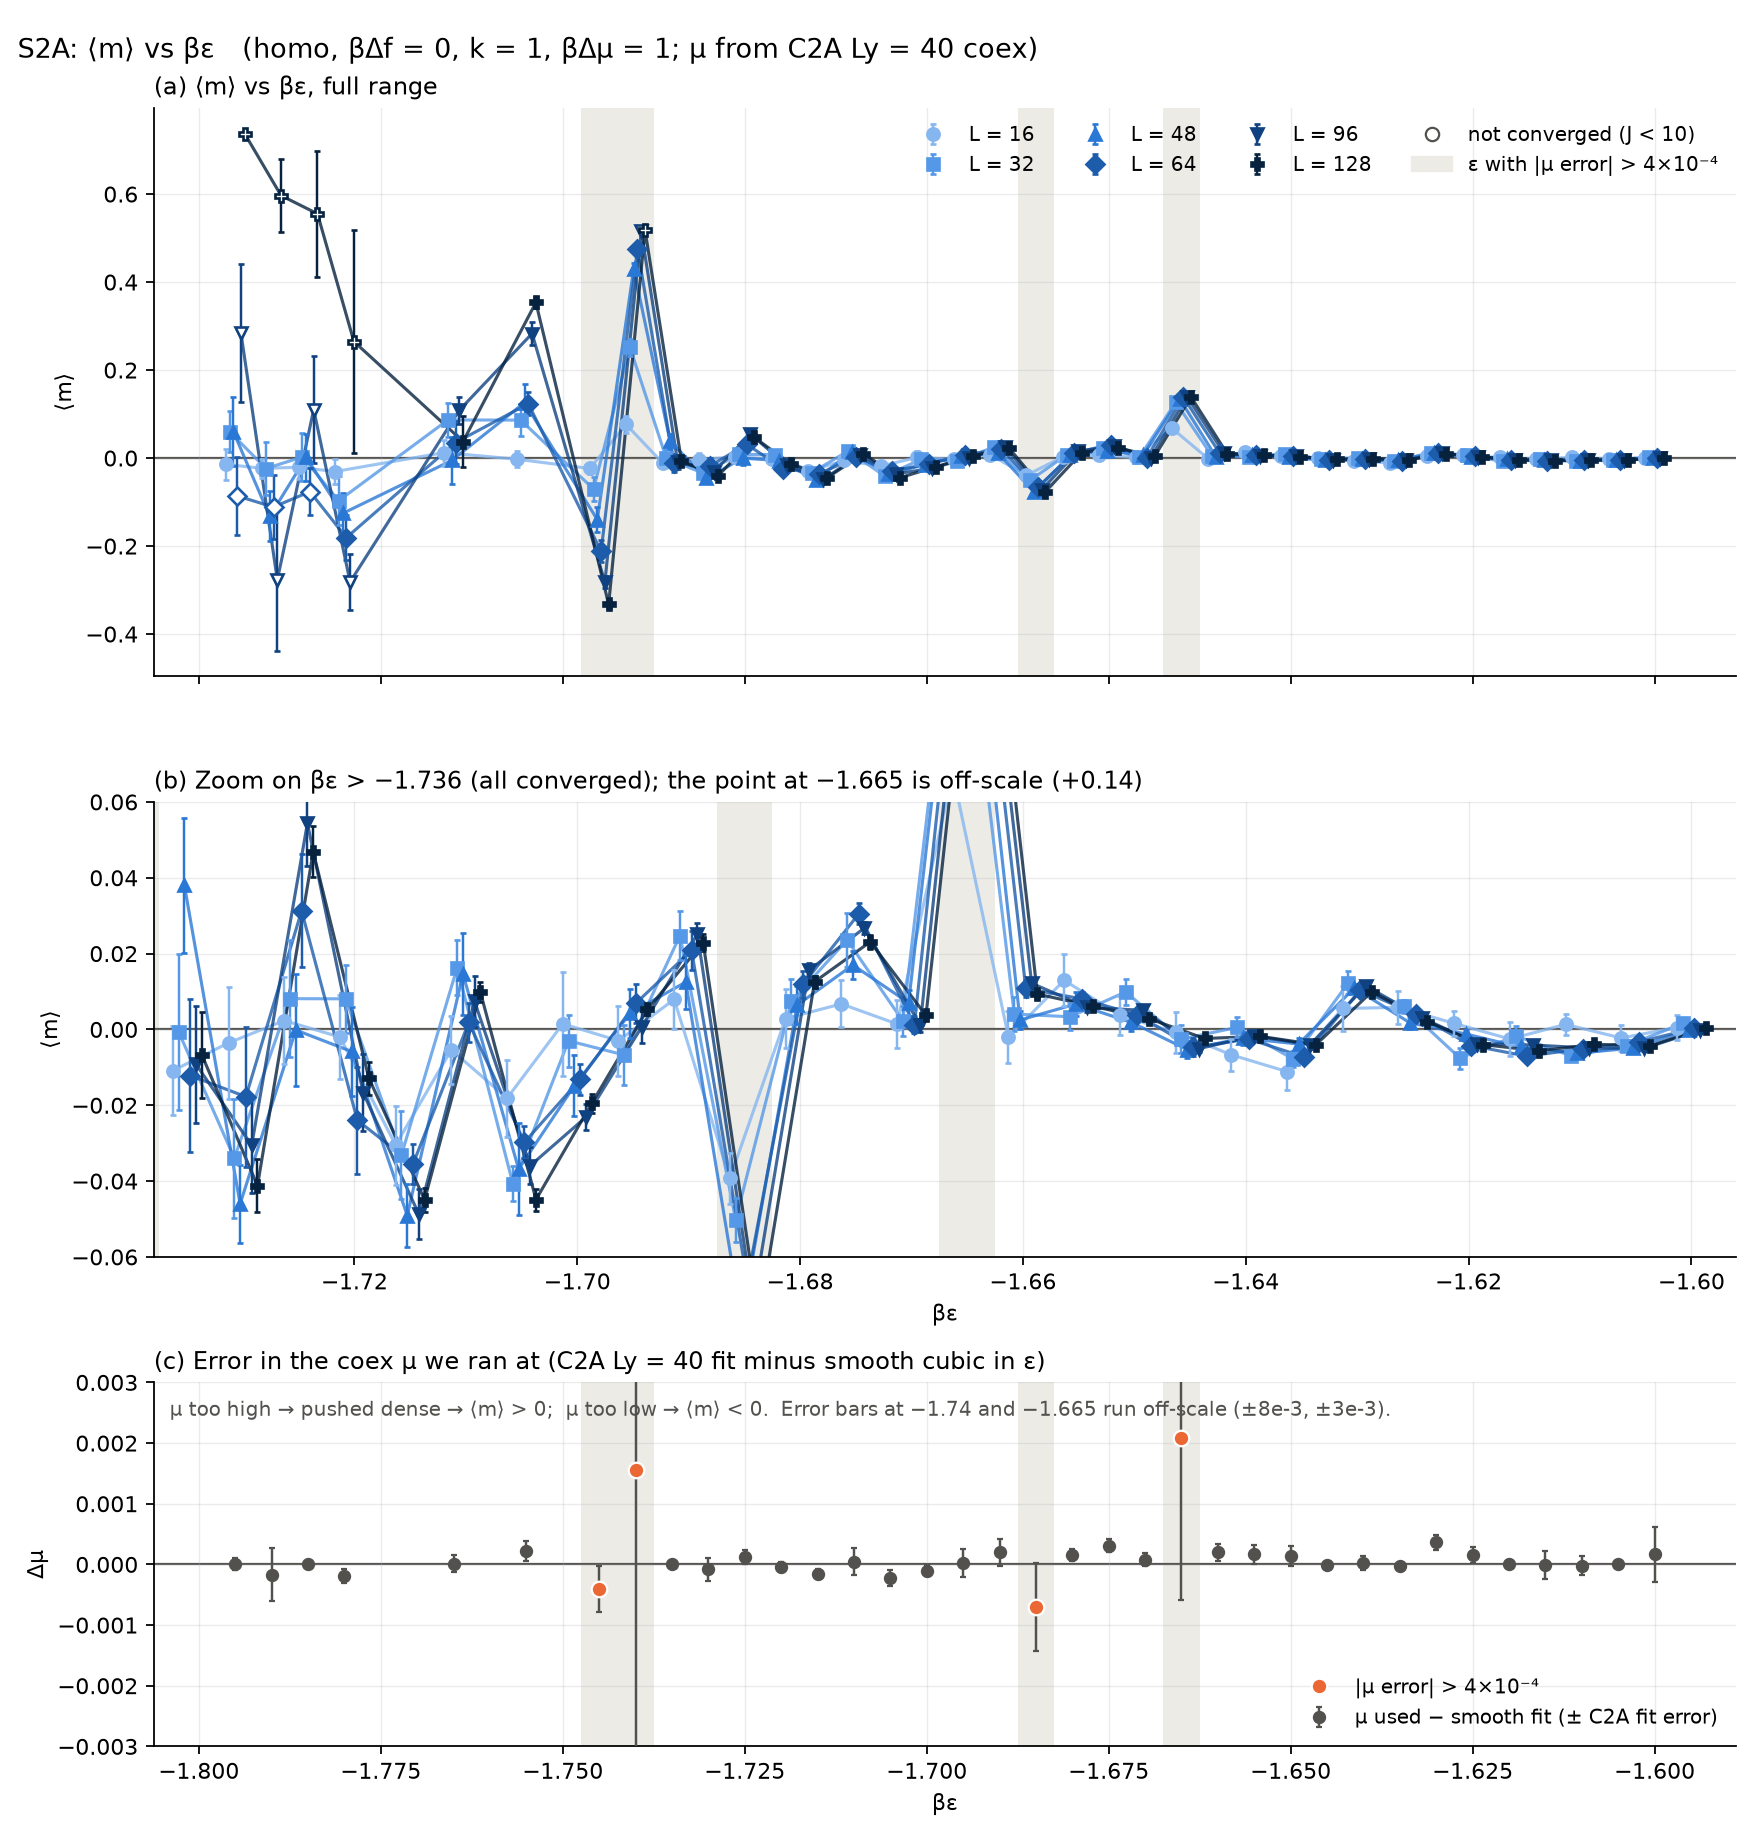
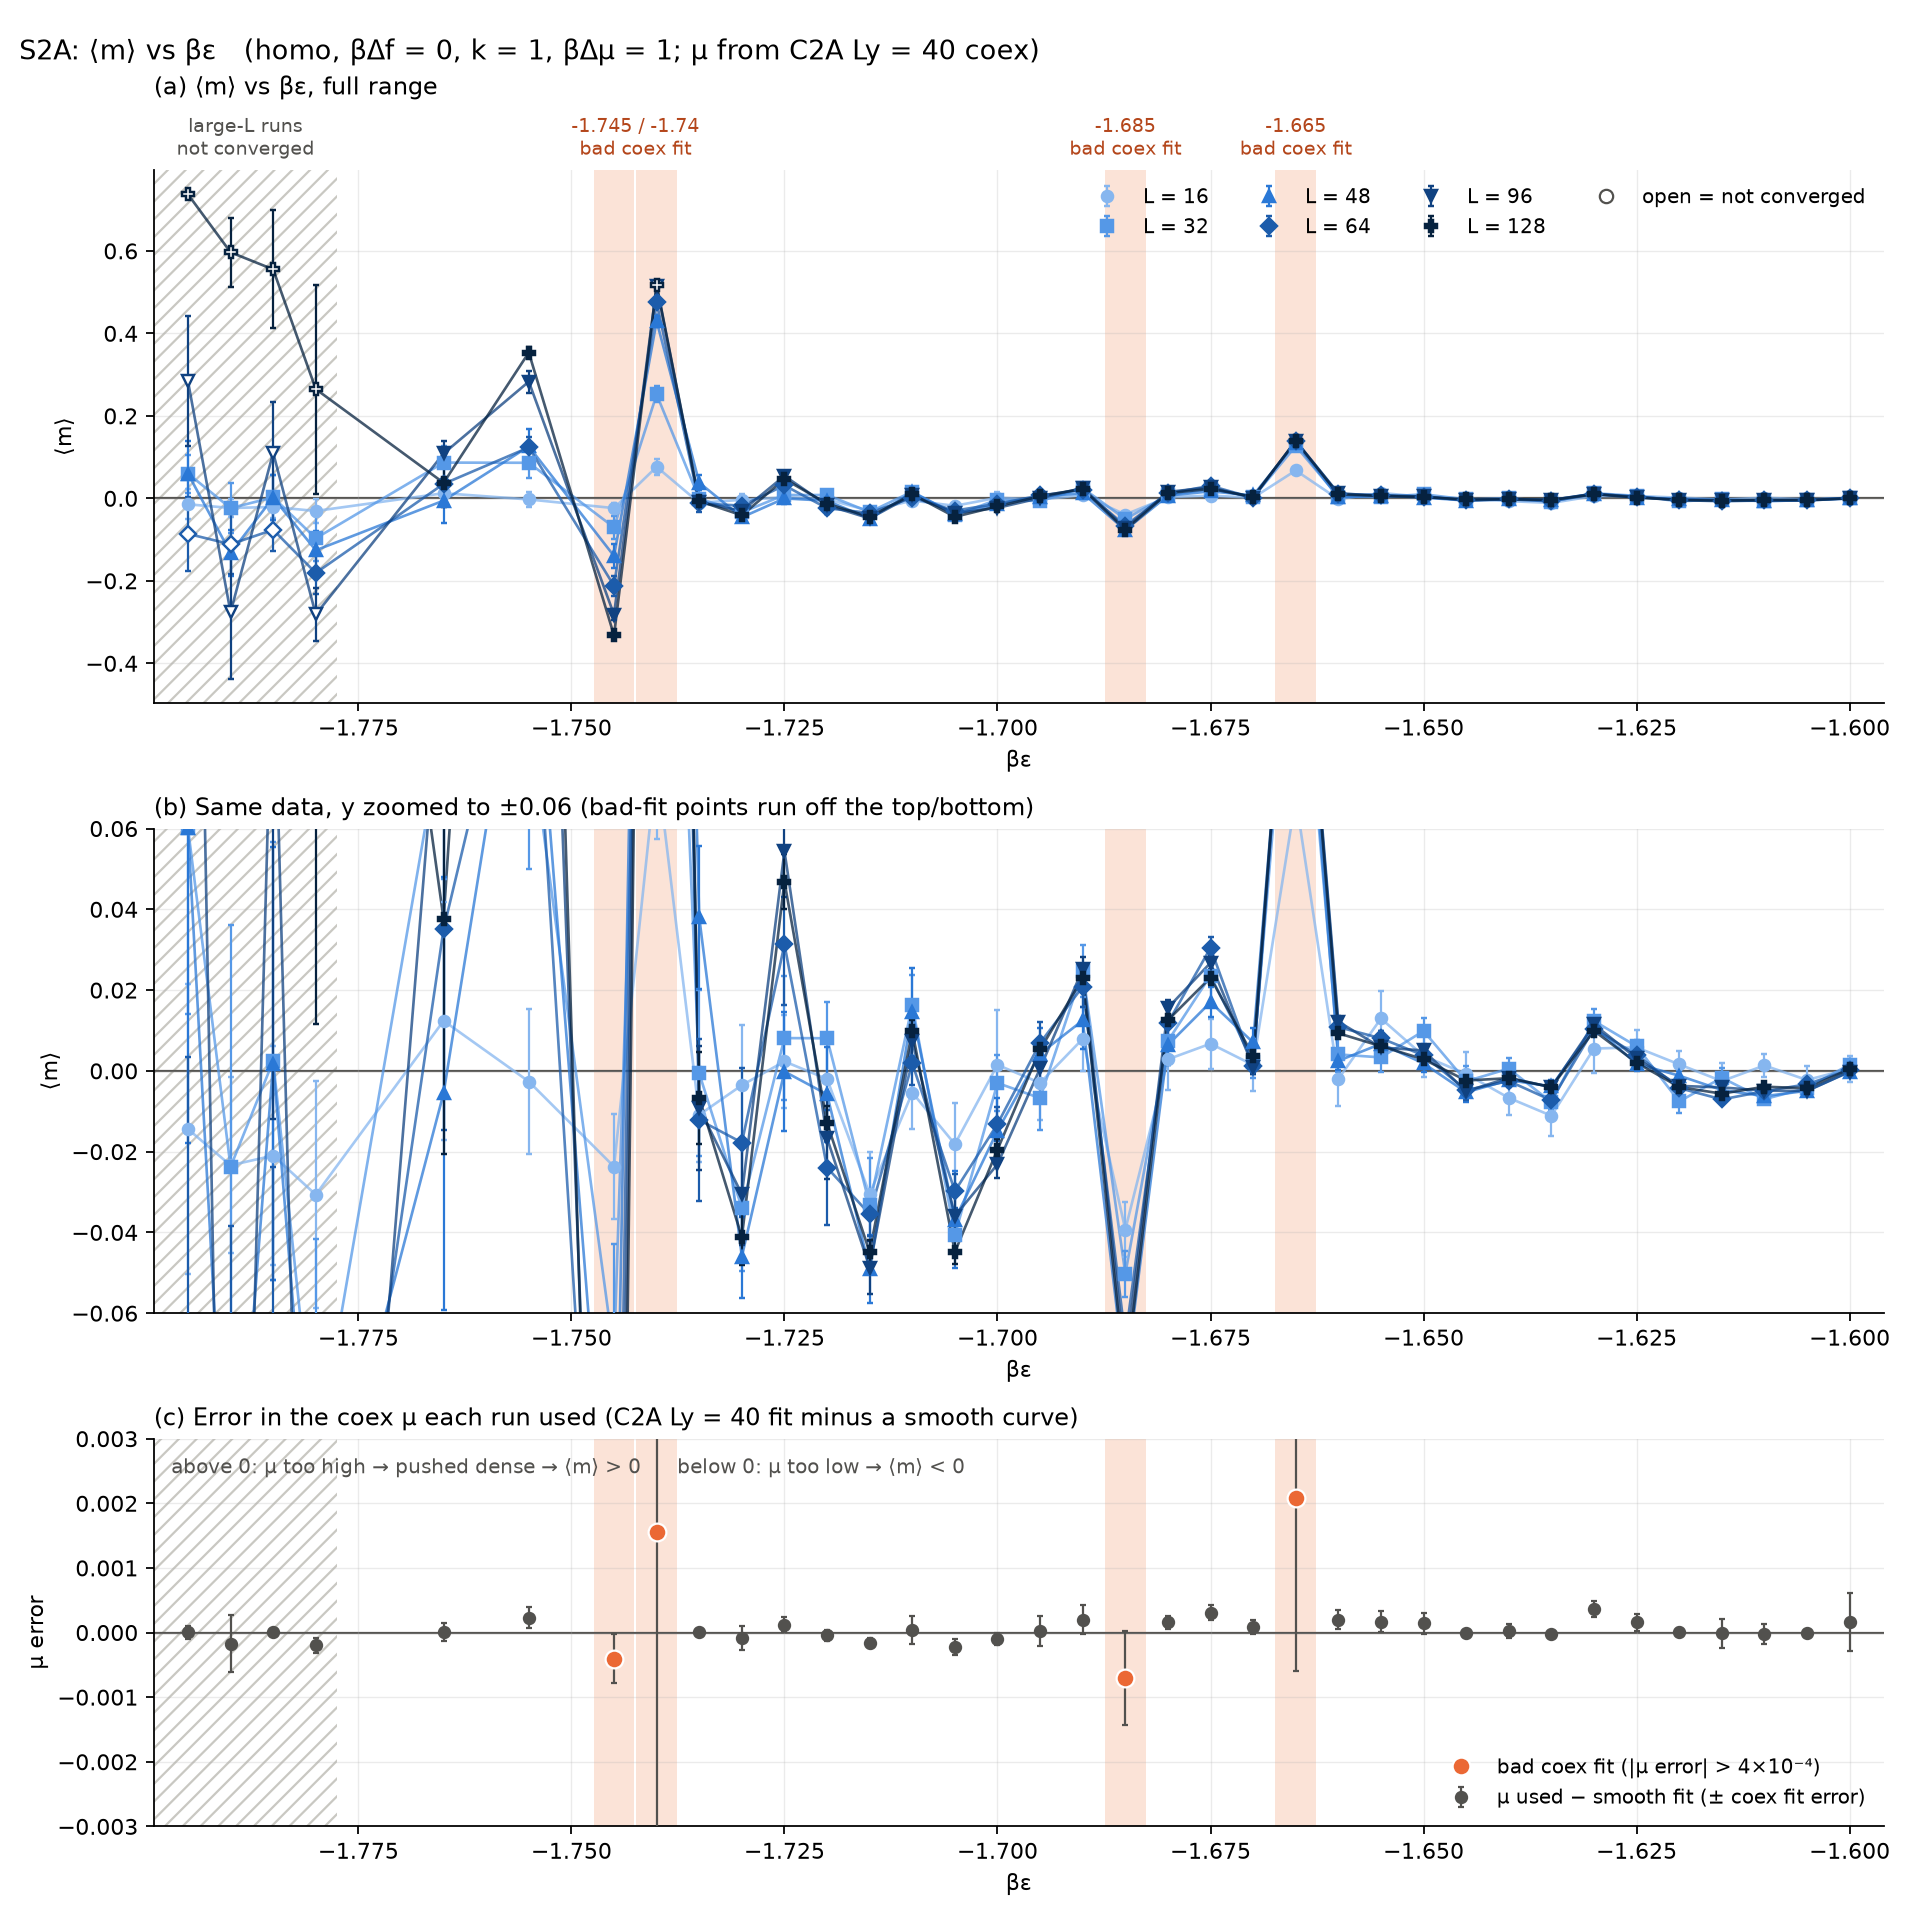
S2A <m> plot: shared x axis, labelled bad-fit and not-converged regions

diff --git a/experiments/2026-10-21_s2a_m_vs_eps/plot_s2a_m.py b/experiments/2026-10-21_s2a_m_vs_eps/plot_s2a_m.py
@@ -23,10 +23,10 @@ import pandas as pd
 L_COLORS = {16: "#86b6ef", 32: "#5598e7", 48: "#2a78d6", 64: "#1c5cab", 96: "#104281", 128: "#06223f"}
 L_MARKERS = {16: "o", 32: "s", 48: "^", 64: "D", 96: "v", 128: "P"}
 INK2 = "#52514e"
-BAND = "#ecebe6"
+BAD_BAND = "#fbe3d7"
+EMPH_TEXT = "#b4461b"
 EMPH = "#eb6834"
 BAD_MU = 4e-4  # |mu - smooth fit| above this marks an eps as a "bad coex mu" point
-ZOOM_EPS = -1.736  # panel (b) shows eps above this (all pairs converged there)
 
 
 def main():
@@ -50,62 +50,77 @@ def main():
     bad = mu[mu["resid"].abs() > BAD_MU]["epsilon"].to_numpy()
 
     fig, (ax1, ax2, ax3) = plt.subplots(
-        3, 1, figsize=(11, 11.5), gridspec_kw={"height_ratios": [1.25, 1, 0.8]})
-    ax3.sharex(ax1)
+        3, 1, figsize=(12, 12), sharex=True, gridspec_kw={"height_ratios": [1.1, 1, 0.8]})
     Ls = sorted(d["L"].unique())
-    offs = dict(zip(Ls, np.linspace(-0.0013, 0.0013, len(Ls))))
+    xlo, xhi = d["epsilon"].min() - 0.004, d["epsilon"].max() + 0.004
+    # Cold end: eps where some L never passed the jump check (ignore the isolated bad-mu eps).
+    unconv = sorted(set(d.loc[~d["converged"], "epsilon"]) - set(bad))
+    cold_edge = max(unconv) + 0.0025 if unconv else None
 
     for ax in (ax1, ax2, ax3):
+        if cold_edge is not None:
+            ax.axvspan(xlo, cold_edge, facecolor="none", edgecolor="#c9c8c2", hatch="///", lw=0, zorder=0)
         for e in bad:
-            ax.axvspan(e - 0.0025, e + 0.0025, color=BAND, lw=0, zorder=0)
+            ax.axvspan(e - 0.0024, e + 0.0024, color=BAD_BAND, lw=0, zorder=0)
         ax.axhline(0, color=INK2, lw=1, zorder=1)
         ax.grid(alpha=0.25, lw=0.6)
+        ax.tick_params(labelbottom=True)
+        ax.set_xlabel("βε")
         for side in ("top", "right"):
             ax.spines[side].set_visible(False)
+    ax1.set_xlim(xlo, xhi)
 
     for ax in (ax1, ax2):
         for L in Ls:
             g = d[d["L"] == L].sort_values("epsilon")
-            if ax is ax2:
-                g = g[g["epsilon"] > ZOOM_EPS]
-            x = g["epsilon"] + offs[L]
-            ax.plot(x, g["m_mean"], color=L_COLORS[L], lw=1.4, alpha=0.8, zorder=2)
+            ax.plot(g["epsilon"], g["m_mean"], color=L_COLORS[L], lw=1.2, alpha=0.75, zorder=2)
             for conv, face in ((True, L_COLORS[L]), (False, "white")):
                 h = g[g["converged"] == conv]
-                ax.errorbar(h["epsilon"] + offs[L], h["m_mean"], yerr=h["m_se"], fmt=L_MARKERS[L],
-                            ms=5.5, color=L_COLORS[L], mfc=face, mec=L_COLORS[L], mew=1.2,
-                            elinewidth=1.1, capsize=1.5, zorder=3,
+                ax.errorbar(h["epsilon"], h["m_mean"], yerr=h["m_se"], fmt=L_MARKERS[L],
+                            ms=5, color=L_COLORS[L], mfc=face, mec=L_COLORS[L], mew=1.1,
+                            elinewidth=1, capsize=1.5, zorder=3,
                             label=f"L = {L}" if conv else None)
 
+    # Label the bad-fit bands once, above panel (a).
+    groups = []
+    for e in sorted(bad):
+        if groups and e - groups[-1][-1] < 0.0075:
+            groups[-1].append(e)
+        else:
+            groups.append([e])
+    for g in groups:
+        ax1.annotate(" / ".join(f"{e:g}" for e in g) + "\nbad coex fit",
+                     xy=(np.mean(g), 1.0), xycoords=("data", "axes fraction"),
+                     xytext=(0, 4), textcoords="offset points", ha="center", va="bottom",
+                     fontsize=8.5, color=EMPH_TEXT)
+    if cold_edge is not None:
+        ax1.annotate("large-L runs\nnot converged", xy=((xlo + cold_edge) / 2, 1.0),
+                     xycoords=("data", "axes fraction"), xytext=(0, 4), textcoords="offset points",
+                     ha="center", va="bottom", fontsize=8.5, color=INK2)
+
     ax1.set_ylabel("⟨m⟩")
-    ax1.tick_params(labelbottom=False)
-    ax1.set_title("(a) ⟨m⟩ vs βε, full range", loc="left", fontsize=11)
+    ax1.set_title("(a) ⟨m⟩ vs βε, full range", loc="left", fontsize=11, pad=34)
     handles, labels = ax1.get_legend_handles_labels()
     handles.append(plt.Line2D([], [], marker="o", ls="", mfc="white", mec=INK2, color=INK2))
-    labels.append("not converged (J < 10)")
-    handles.append(plt.Rectangle((0, 0), 1, 1, color=BAND))
-    labels.append("ε with |μ error| > 4×10⁻⁴")
+    labels.append("open = not converged")
     ax1.legend(handles, labels, frameon=False, fontsize=9, ncol=4, loc="upper right")
 
-    ax2.set_xlim(ZOOM_EPS - 0.002, d["epsilon"].max() + 0.004)
     ax2.set_ylim(-0.06, 0.06)
     ax2.set_ylabel("⟨m⟩")
-    ax2.set_xlabel("βε")
-    ax2.set_title("(b) Zoom on βε > −1.736 (all converged); the point at −1.665 is off-scale (+0.14)",
+    ax2.set_title("(b) Same data, y zoomed to ±0.06 (bad-fit points run off the top/bottom)",
                   loc="left", fontsize=11)
 
     ax3.errorbar(mu["epsilon"], mu["resid"], yerr=mu["err"], fmt="o", ms=5, color=INK2,
-                 elinewidth=1.1, capsize=1.5, zorder=3, label="μ used − smooth fit (± C2A fit error)")
+                 elinewidth=1, capsize=1.5, zorder=3, label="μ used − smooth fit (± coex fit error)")
     flag = mu["epsilon"].isin(bad)
-    ax3.plot(mu.loc[flag, "epsilon"], mu.loc[flag, "resid"], "o", ms=7, mfc=EMPH, mec="white",
-             mew=1, zorder=4, label="|μ error| > 4×10⁻⁴")
+    ax3.plot(mu.loc[flag, "epsilon"], mu.loc[flag, "resid"], "o", ms=8, mfc=EMPH, mec="white",
+             mew=1, zorder=4, label="bad coex fit (|μ error| > 4×10⁻⁴)")
     ax3.set_ylim(-3e-3, 3e-3)
-    ax3.set_ylabel("Δμ")
-    ax3.set_xlabel("βε")
-    ax3.set_title("(c) Error in the coex μ we ran at (C2A Ly = 40 fit minus smooth cubic in ε)",
+    ax3.set_ylabel("μ error")
+    ax3.set_title("(c) Error in the coex μ each run used (C2A Ly = 40 fit minus a smooth curve)",
                   loc="left", fontsize=11)
-    ax3.text(0.01, 0.95, "μ too high → pushed dense → ⟨m⟩ > 0;  μ too low → ⟨m⟩ < 0.  "
-             "Error bars at −1.74 and −1.665 run off-scale (±8e-3, ±3e-3).",
+    ax3.text(0.01, 0.95, "above 0: μ too high → pushed dense → ⟨m⟩ > 0      "
+             "below 0: μ too low → ⟨m⟩ < 0",
              transform=ax3.transAxes, fontsize=9, color=INK2, va="top")
     ax3.legend(frameon=False, fontsize=9, loc="lower right")
 
